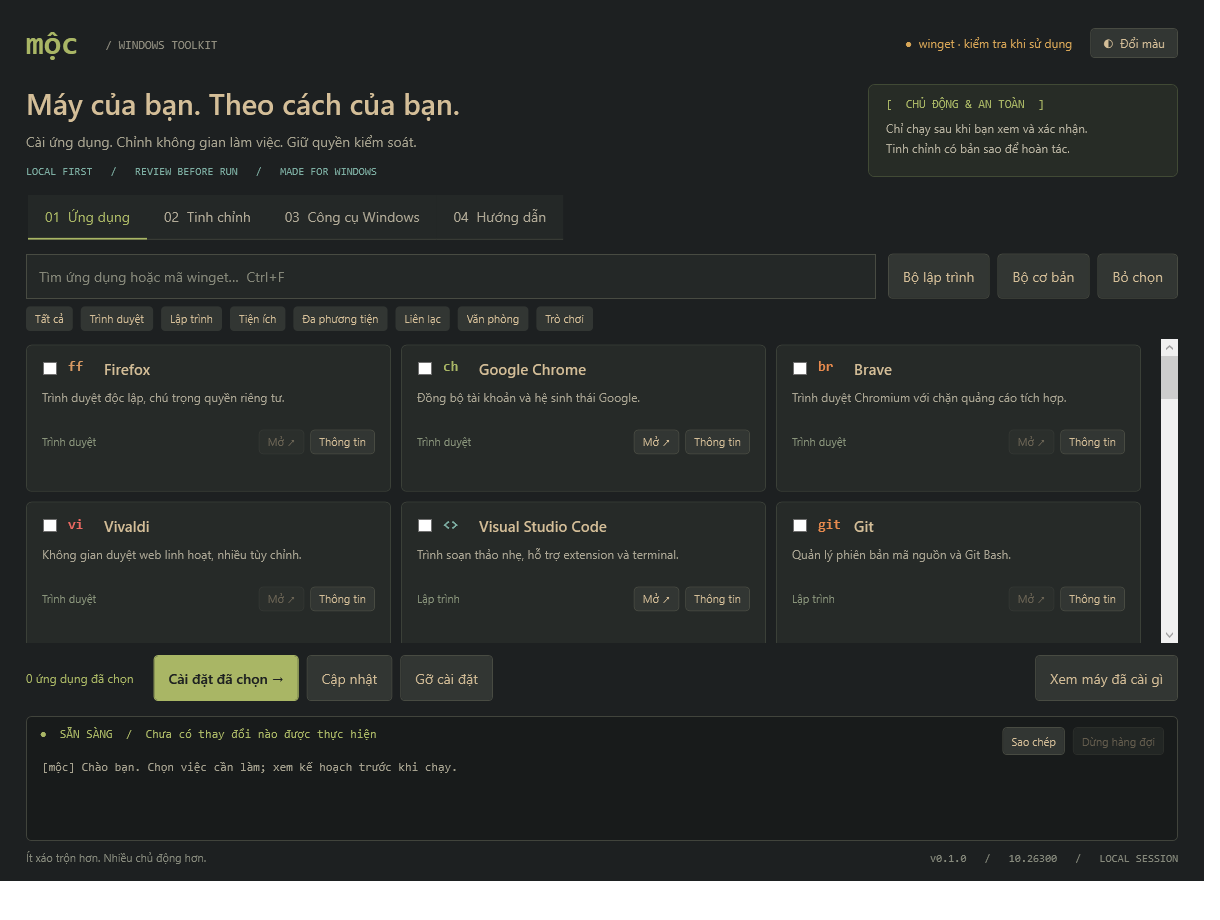
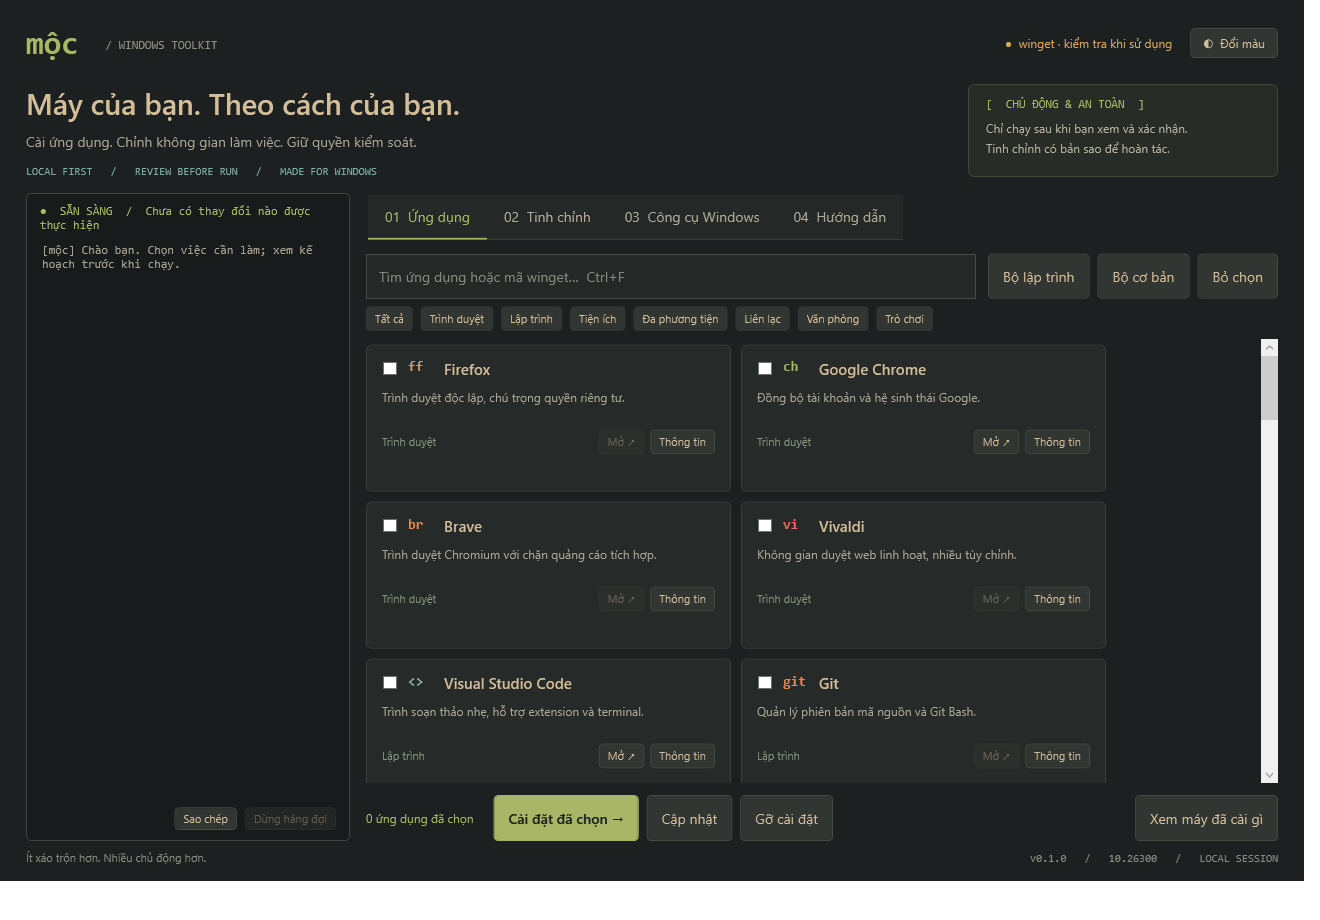
Giao diện: nhật ký sang cột trái, tab chức năng bên phải
Cửa sổ mặc định 1320 px, tối thiểu 1180 px; cập nhật ảnh README.

diff --git a/src/MainWindow.xaml b/src/MainWindow.xaml
@@ -1,4 +1,4 @@
-<Window xmlns="http://schemas.microsoft.com/winfx/2006/xaml/presentation" xmlns:x="http://schemas.microsoft.com/winfx/2006/xaml" Title="Mộc — Windows Toolkit" Width="1220" Height="920" MinWidth="1060" MinHeight="720" WindowStartupLocation="CenterScreen" Background="#1D2021" Foreground="#D4BE98" FontFamily="Segoe UI" FontSize="14">
+<Window xmlns="http://schemas.microsoft.com/winfx/2006/xaml/presentation" xmlns:x="http://schemas.microsoft.com/winfx/2006/xaml" Title="Mộc — Windows Toolkit" Width="1320" Height="920" MinWidth="1180" MinHeight="720" WindowStartupLocation="CenterScreen" Background="#1D2021" Foreground="#D4BE98" FontFamily="Segoe UI" FontSize="14">
  <!-- [VI] Style dùng chung: màu Gruvbox, nút, ô nhập, tab. -->
  <Window.Resources>
   <Style TargetType="Button">
@@ -10,12 +10,12 @@
   <Style TargetType="CheckBox"><Setter Property="Foreground" Value="#D4BE98"/><Setter Property="VerticalContentAlignment" Value="Center"/><Setter Property="Cursor" Value="Hand"/></Style>
   <Style TargetType="TabItem"><Setter Property="Foreground" Value="#B3AC99"/><Setter Property="Padding" Value="17,12"/><Setter Property="Template"><Setter.Value><ControlTemplate TargetType="TabItem"><Border x:Name="TabBorder" Background="#242827" BorderBrush="#484B42" BorderThickness="0,0,0,1" Padding="{TemplateBinding Padding}"><ContentPresenter ContentSource="Header"/></Border><ControlTemplate.Triggers><Trigger Property="IsSelected" Value="True"><Setter Property="Foreground" Value="#A9B665"/><Setter TargetName="TabBorder" Property="BorderBrush" Value="#A9B665"/><Setter TargetName="TabBorder" Property="BorderThickness" Value="0,0,0,2"/></Trigger></ControlTemplate.Triggers></ControlTemplate></Setter.Value></Setter></Style>
  </Window.Resources>
- <!-- [VI] Bố cục 5 hàng: tiêu đề, giới thiệu, các tab, nhật ký, footer. -->
+ <!-- [VI] Bố cục: tiêu đề, giới thiệu, rồi nhật ký (cột trái) cạnh các tab (cột phải), footer. -->
  <Grid Margin="26,18,26,16">
-  <Grid.RowDefinitions><RowDefinition Height="50"/><RowDefinition Height="125"/><RowDefinition Height="*"/><RowDefinition Height="140"/><RowDefinition Height="24"/></Grid.RowDefinitions>
-  <Grid Grid.Row="0"><StackPanel Orientation="Horizontal" VerticalAlignment="Center"><TextBlock Text="mộc" FontFamily="Consolas" FontSize="32" FontWeight="Bold" Foreground="#A9B665"/><TextBlock Text=" / WINDOWS TOOLKIT" FontFamily="Consolas" FontSize="12" VerticalAlignment="Center" Margin="20,4,0,0" Foreground="#928F80"/></StackPanel><StackPanel Orientation="Horizontal" HorizontalAlignment="Right" VerticalAlignment="Center"><TextBlock x:Name="WingetBadge" Text="●  winget · kiểm tra khi sử dụng" Foreground="#D8A657" VerticalAlignment="Center" Margin="0,0,18,0" FontSize="12"/><Button x:Name="ThemeButton" Content="◐  Đổi màu" FontSize="12" Padding="12,6" Margin="0"/></StackPanel></Grid>
-  <Grid Grid.Row="1" Margin="0,16,0,16"><Grid.ColumnDefinitions><ColumnDefinition Width="*"/><ColumnDefinition Width="310"/></Grid.ColumnDefinitions><StackPanel><TextBlock Text="Máy của bạn. Theo cách của bạn." FontSize="29" FontWeight="SemiBold" Margin="0,0,0,9"/><TextBlock Text="Cài ứng dụng. Chỉnh không gian làm việc. Giữ quyền kiểm soát." Foreground="#A6A28F"/><TextBlock Text="LOCAL FIRST   /   REVIEW BEFORE RUN   /   MADE FOR WINDOWS" FontFamily="Consolas" FontSize="11" Foreground="#7DAEA3" Margin="0,15,0,0"/></StackPanel><Border Grid.Column="1" Background="#272C26" BorderBrush="#414A35" BorderThickness="1" CornerRadius="6" Padding="17,12"><StackPanel><TextBlock Text="[  CHỦ ĐỘNG &amp; AN TOÀN  ]" Foreground="#A9B665" FontFamily="Consolas" FontSize="12"/><TextBlock Text="Chỉ chạy sau khi bạn xem và xác nhận.&#x0a;Tinh chỉnh có bản sao để hoàn tác." FontSize="12" Foreground="#B5B09E" Margin="0,9,0,0" LineHeight="20"/></StackPanel></Border></Grid>
-  <TabControl x:Name="Tabs" Grid.Row="2" Background="#1D2021" BorderThickness="0" Padding="0,14,0,0">
+  <Grid.RowDefinitions><RowDefinition Height="50"/><RowDefinition Height="125"/><RowDefinition Height="*"/><RowDefinition Height="24"/></Grid.RowDefinitions><Grid.ColumnDefinitions><ColumnDefinition Width="340"/><ColumnDefinition Width="*"/></Grid.ColumnDefinitions>
+  <Grid Grid.Row="0" Grid.ColumnSpan="2"><StackPanel Orientation="Horizontal" VerticalAlignment="Center"><TextBlock Text="mộc" FontFamily="Consolas" FontSize="32" FontWeight="Bold" Foreground="#A9B665"/><TextBlock Text=" / WINDOWS TOOLKIT" FontFamily="Consolas" FontSize="12" VerticalAlignment="Center" Margin="20,4,0,0" Foreground="#928F80"/></StackPanel><StackPanel Orientation="Horizontal" HorizontalAlignment="Right" VerticalAlignment="Center"><TextBlock x:Name="WingetBadge" Text="●  winget · kiểm tra khi sử dụng" Foreground="#D8A657" VerticalAlignment="Center" Margin="0,0,18,0" FontSize="12"/><Button x:Name="ThemeButton" Content="◐  Đổi màu" FontSize="12" Padding="12,6" Margin="0"/></StackPanel></Grid>
+  <Grid Grid.Row="1" Grid.ColumnSpan="2" Margin="0,16,0,16"><Grid.ColumnDefinitions><ColumnDefinition Width="*"/><ColumnDefinition Width="310"/></Grid.ColumnDefinitions><StackPanel><TextBlock Text="Máy của bạn. Theo cách của bạn." FontSize="29" FontWeight="SemiBold" Margin="0,0,0,9"/><TextBlock Text="Cài ứng dụng. Chỉnh không gian làm việc. Giữ quyền kiểm soát." Foreground="#A6A28F"/><TextBlock Text="LOCAL FIRST   /   REVIEW BEFORE RUN   /   MADE FOR WINDOWS" FontFamily="Consolas" FontSize="11" Foreground="#7DAEA3" Margin="0,15,0,0"/></StackPanel><Border Grid.Column="1" Background="#272C26" BorderBrush="#414A35" BorderThickness="1" CornerRadius="6" Padding="17,12"><StackPanel><TextBlock Text="[  CHỦ ĐỘNG &amp; AN TOÀN  ]" Foreground="#A9B665" FontFamily="Consolas" FontSize="12"/><TextBlock Text="Chỉ chạy sau khi bạn xem và xác nhận.&#x0a;Tinh chỉnh có bản sao để hoàn tác." FontSize="12" Foreground="#B5B09E" Margin="0,9,0,0" LineHeight="20"/></StackPanel></Border></Grid>
+  <TabControl x:Name="Tabs" Grid.Row="2" Grid.Column="1" Background="#1D2021" BorderThickness="0" Padding="0,14,0,0">
    <!-- [VI] Tab 1: tìm kiếm, nhóm, thẻ ứng dụng (UI.ps1 dựng), nút cài/cập nhật/gỡ. -->
    <TabItem Header="01  Ứng dụng"><Grid><Grid.RowDefinitions><RowDefinition Height="45"/><RowDefinition Height="40"/><RowDefinition Height="*"/><RowDefinition Height="58"/></Grid.RowDefinitions>
     <Grid><Grid.ColumnDefinitions><ColumnDefinition Width="*"/><ColumnDefinition Width="Auto"/></Grid.ColumnDefinitions><TextBox x:Name="SearchBox" ToolTip="Tìm tên, mã winget hoặc nhóm (Ctrl+F)" VerticalContentAlignment="Center"/><TextBlock x:Name="SearchHint" Text="Tìm ứng dụng hoặc mã winget…  Ctrl+F" IsHitTestVisible="False" Foreground="#858779" Margin="13,0,0,0" VerticalAlignment="Center"/><StackPanel Grid.Column="1" Orientation="Horizontal" Margin="12,0,0,0"><Button x:Name="DevPreset" Content="Bộ lập trình"/><Button x:Name="BasicPreset" Content="Bộ cơ bản"/><Button x:Name="ClearSelection" Content="Bỏ chọn" Margin="0"/></StackPanel></Grid>
@@ -29,7 +29,7 @@
    <TabItem Header="04  Hướng dẫn"><ScrollViewer VerticalScrollBarVisibility="Auto"><StackPanel Margin="6"><TextBlock Text="Một toolkit dễ hiểu, dễ tiếp tục phát triển." FontSize="23" Margin="0,6,0,18"/><TextBlock TextWrapping="Wrap" Foreground="#B5B09E" LineHeight="26" Text="1. Chọn ứng dụng hoặc một bộ gợi ý. Bạn có thể xem thông tin gói trước khi cài.&#x0a;2. Xem kế hoạch: lệnh cụ thể, nguồn winget và tác động. Chỉ xác nhận khi đã đọc.&#x0a;3. Theo dõi nhật ký. Dừng hàng đợi sẽ bỏ các mục chưa chạy, không ngắt installer đang chạy.&#x0a;4. Tinh chỉnh luôn lưu bản sao gốc. Dùng Hoàn tác để trả lại giá trị trước đó.&#x0a;5. SFC / DISM mở riêng với UAC; không đóng cửa sổ khi công cụ còn hoạt động.&#x0a;&#x0a;Mộc không gửi telemetry. Winget và ứng dụng được cài có kết nối mạng riêng.&#x0a;Không có phần mềm nào bảo đảm an toàn tuyệt đối; hãy sao lưu dữ liệu quan trọng.&#x0a;Không tự nhận diện bản cài từ vị trí tùy chỉnh. Nút Mở chỉ hỗ trợ một số ứng dụng có chữ ký hợp lệ."/><StackPanel Orientation="Horizontal" Margin="0,20,0,0"><Button x:Name="DocsButton" Content="Mở tài liệu dự án"/><Button x:Name="LogsButton" Content="Mở nhật ký &amp; bản sao"/></StackPanel><TextBlock Text="MỘC 0.1.0  /  POWERSHELL + WPF  /  KHÔNG LIÊN KẾT VỚI CTT HAY OMARCHY" FontFamily="Consolas" FontSize="11" Foreground="#7DAEA3" Margin="0,24,0,0"/></StackPanel></ScrollViewer></TabItem>
   </TabControl>
   <!-- [VI] Khung trạng thái + nhật ký thao tác; nút Dừng hàng đợi chỉ bỏ các mục chưa chạy. -->
-  <Border Grid.Row="3" BorderBrush="#41443C" BorderThickness="1" Background="#181B1B" CornerRadius="5" Margin="0,15,0,0" Padding="13,10"><Grid><Grid.RowDefinitions><RowDefinition Height="28"/><RowDefinition Height="*"/></Grid.RowDefinitions><TextBlock x:Name="StatusText" Text="●  SẴN SÀNG  /  Chưa có thay đổi nào được thực hiện" Foreground="#A9B665" FontFamily="Consolas" FontSize="12"/><StackPanel Orientation="Horizontal" HorizontalAlignment="Right"><Button x:Name="CopyLogButton" Content="Sao chép" FontSize="11" Padding="8,3"/><Button x:Name="StopButton" Content="Dừng hàng đợi" IsEnabled="False" FontSize="11" Padding="8,3" Margin="0"/></StackPanel><TextBox x:Name="LogBox" Grid.Row="1" Text="[mộc] Chào bạn. Chọn việc cần làm; xem kế hoạch trước khi chạy." IsReadOnly="True" TextWrapping="Wrap" VerticalScrollBarVisibility="Auto" Background="Transparent" BorderThickness="0" Foreground="#A6A28F" FontFamily="Consolas" FontSize="12" Padding="0,5,0,0"/></Grid></Border>
-  <TextBlock Grid.Row="4" Text="Ít xáo trộn hơn. Nhiều chủ động hơn." FontSize="11" Foreground="#888B7D" VerticalAlignment="Bottom"/><TextBlock Grid.Row="4" x:Name="Footer" Text="v0.1.0   /   LOCAL SESSION" FontFamily="Consolas" FontSize="11" Foreground="#888B7D" VerticalAlignment="Bottom" HorizontalAlignment="Right"/>
+  <Border Grid.Row="2" BorderBrush="#41443C" BorderThickness="1" Background="#181B1B" CornerRadius="5" Margin="0,0,16,0" Padding="13,10"><Grid><Grid.RowDefinitions><RowDefinition Height="Auto"/><RowDefinition Height="*"/><RowDefinition Height="Auto"/></Grid.RowDefinitions><TextBlock x:Name="StatusText" Text="●  SẴN SÀNG  /  Chưa có thay đổi nào được thực hiện" Foreground="#A9B665" FontFamily="Consolas" FontSize="12" TextWrapping="Wrap" Margin="0,0,0,6"/><StackPanel Grid.Row="2" Orientation="Horizontal" HorizontalAlignment="Right" Margin="0,8,0,0"><Button x:Name="CopyLogButton" Content="Sao chép" FontSize="11" Padding="8,3"/><Button x:Name="StopButton" Content="Dừng hàng đợi" IsEnabled="False" FontSize="11" Padding="8,3" Margin="0"/></StackPanel><TextBox x:Name="LogBox" Grid.Row="1" Text="[mộc] Chào bạn. Chọn việc cần làm; xem kế hoạch trước khi chạy." IsReadOnly="True" TextWrapping="Wrap" VerticalScrollBarVisibility="Auto" Background="Transparent" BorderThickness="0" Foreground="#A6A28F" FontFamily="Consolas" FontSize="12" Padding="0,5,0,0"/></Grid></Border>
+  <TextBlock Grid.Row="3" Grid.ColumnSpan="2" Text="Ít xáo trộn hơn. Nhiều chủ động hơn." FontSize="11" Foreground="#888B7D" VerticalAlignment="Bottom"/><TextBlock Grid.Row="3" Grid.ColumnSpan="2" x:Name="Footer" Text="v0.1.0   /   LOCAL SESSION" FontFamily="Consolas" FontSize="11" Foreground="#888B7D" VerticalAlignment="Bottom" HorizontalAlignment="Right"/>
  </Grid>
 </Window>

diff --git a/CHANGELOG.md b/CHANGELOG.md
@@ -5,6 +5,7 @@
 - Sửa: hàng đợi không còn kẹt "đang chạy" khi winget đã thoát nhưng tiến trình con (ứng dụng tự mở sau khi cài) còn giữ pipe đầu ra; chờ 5 giây rồi chạy tiếp, bỏ phần đầu ra.
 - `install.ps1`: cài lại khi Mộc đang mở báo rõ "đóng Mộc rồi chạy lại" thay vì lỗi Move-Item thô.
 - Giải thích mã 0x8A150014 (winget không tìm thấy gói); hàng đợi vẫn dừng.
+- Giao diện: khung trạng thái + nhật ký chuyển sang cột trái, các tab chức năng nằm bên phải; cửa sổ mặc định 1320 px, tối thiểu 1180 px.
 - Dọn: bỏ brush `Accent` và tham chiếu `AppsScroll` không dùng; `Build.ps1` dùng một biến `$version`.
 - README: lệnh `irm` là cách cài chính; thêm cách mở lại Mộc. USER-GUIDE: sửa mô tả mã thoát đã lỗi thời.
 - 2 test mới (53): mã 0x8A150014, và `install.ps1` vẫn parse được khi irm giải mã Latin-1.
